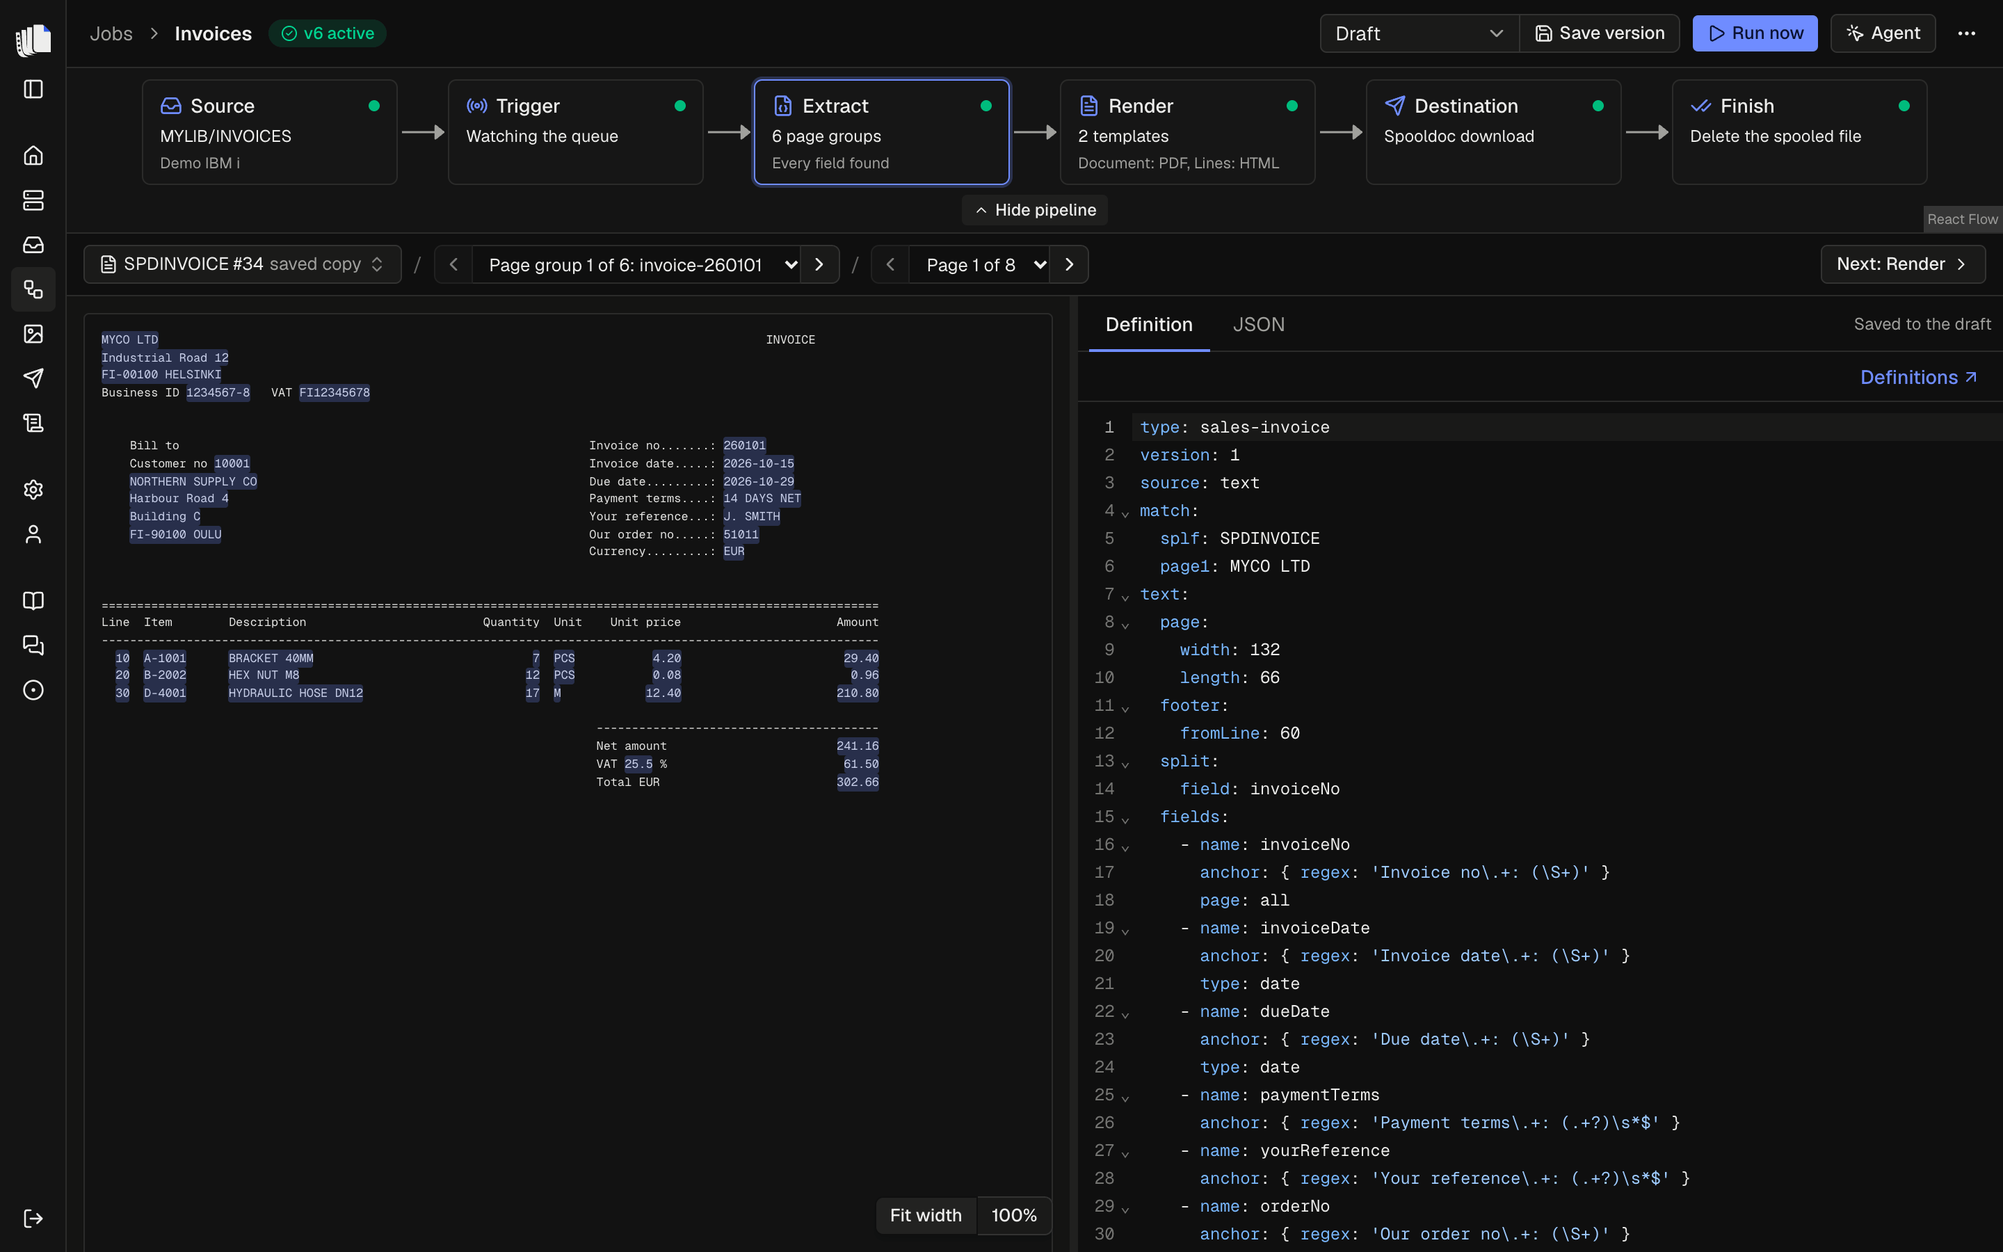
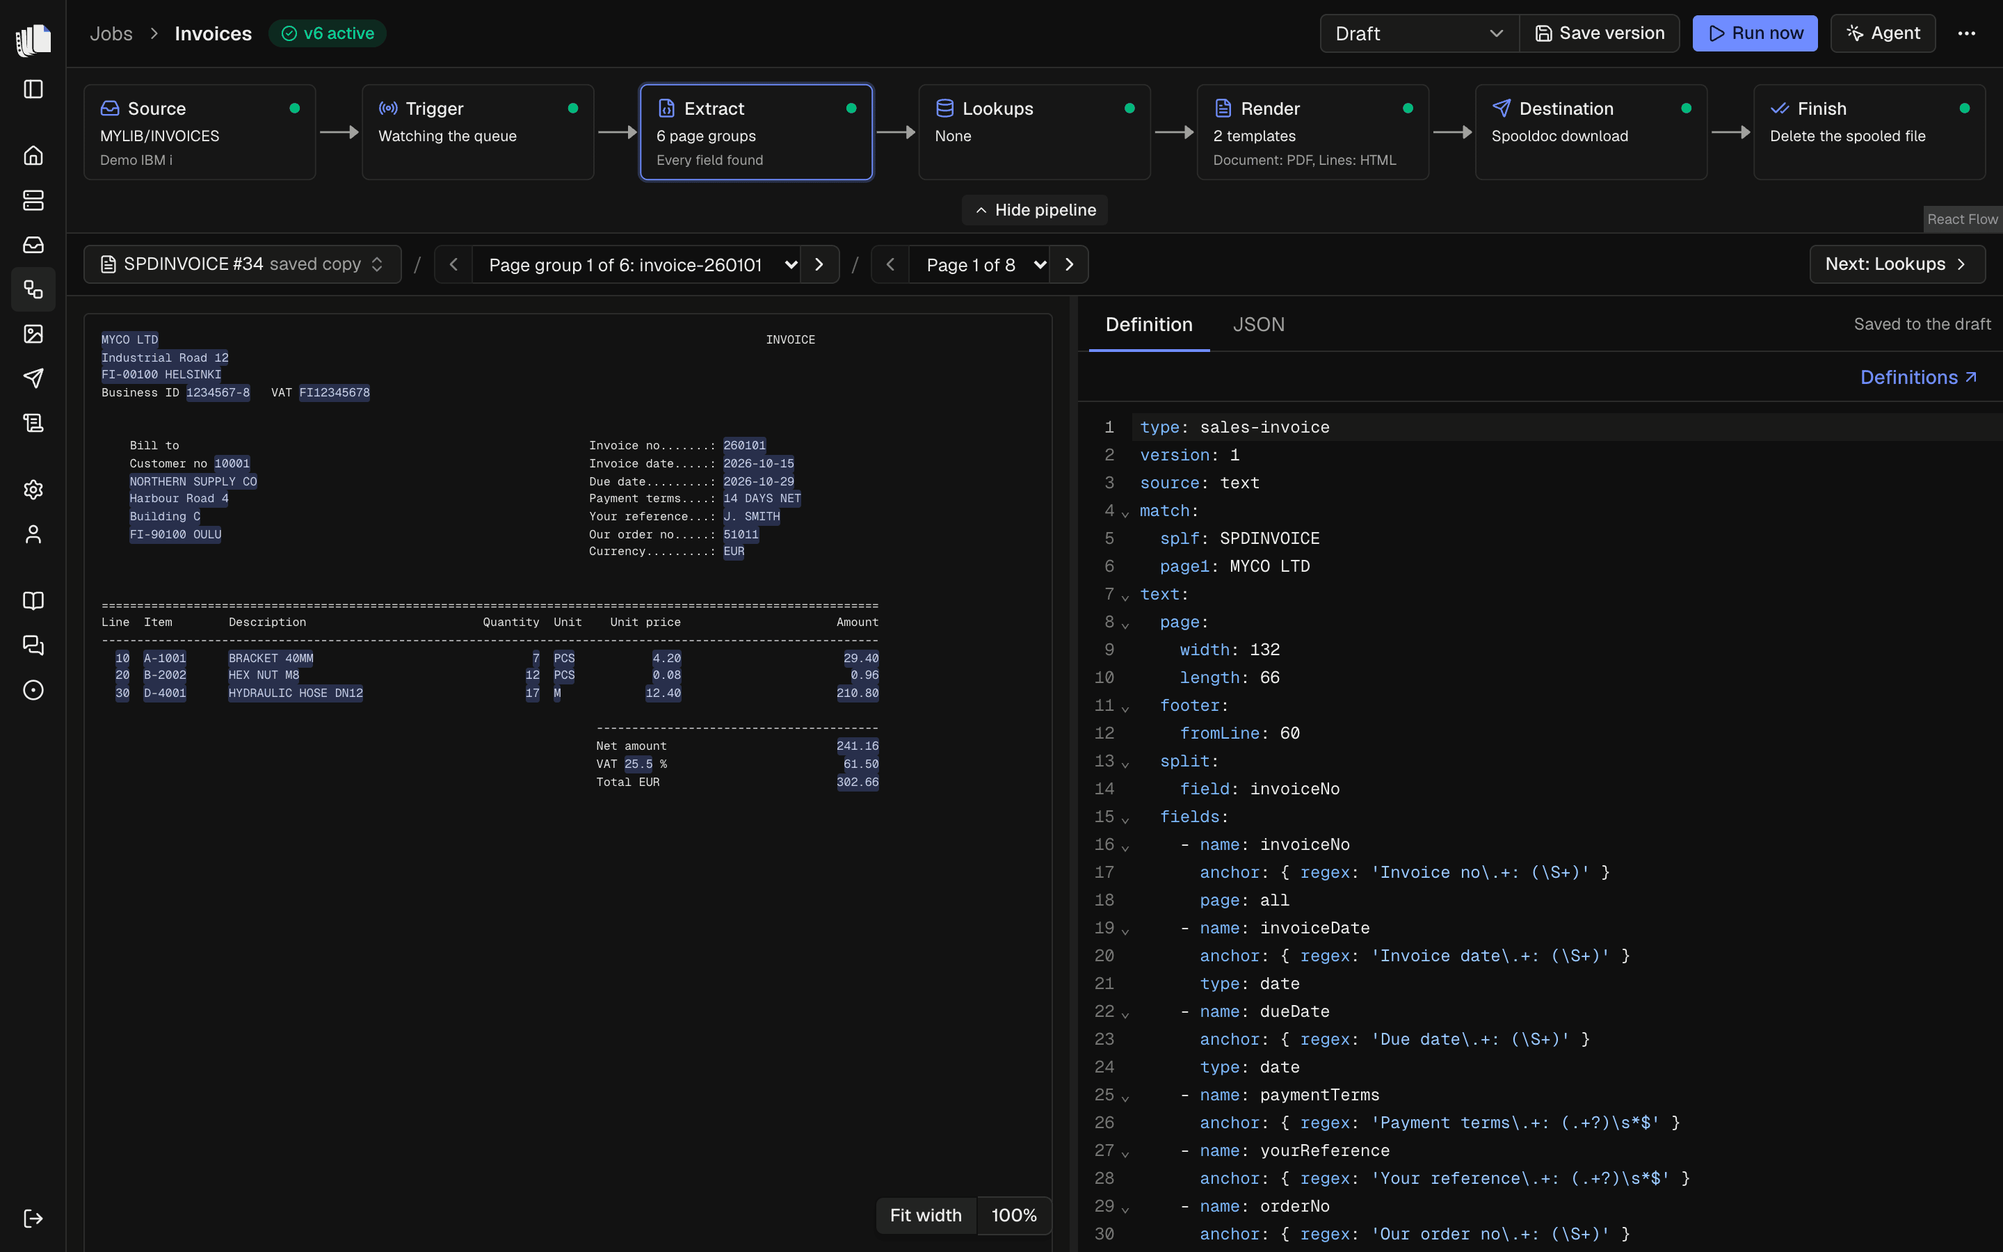
docs: screenshots for lookups (#156)
The job builder screenshot showed six steps. Lookups (#155) made it
seven, and `docs/lookups.md` had no screenshots.

## What changes

- **`job-builder`** is retaken with the seven steps, Lookups reading
None. Its alt text in `docs/jobs.md` and `features.ts` now says seven.
The 0.1.0 post stays as published: its two `src` attributes point at the
old six-step images, frozen under
`apps/site/public/blog/spooldoc-0-1-0/`, and nothing else in it changes.
- **Three new shots in `docs/lookups.md`**, on a pick list job with two
lookups:
- `lookups-step`: `customer` tested, with the SQL and its inline value
`‹10001›`, the parameter with its Db2 for i type, the row and the
template tags.
- `lookups-row`: `product`, once per row of `lines`, reading
`:customer.LANG`, on a page group whose customer reads Finnish.
- `lookups-miss`: customer 10007 is not in the table, so it shows No row
found, the warning that `product` is left empty, and the amber dots.
- **Features:** a new feature, "Lookups from Db2 for i", comes right
after Definitions, with `lookups-step` and `lookups-row`. The lookups
paragraph moves into it from Jobs. Jobs keeps its seven steps sentence
and its link to the Lookups guide. The home grid shows the nine cards as
three rows of three (two columns on tablets, the odd last card across
both), and each card carries the icon the app uses for the same thing,
from `apps/site/src/lib/icons.ts`.
- The example warning in `docs/lookups.md` now reads `picklist-700005`,
[…]

diff --git a/apps/site/src/lib/features.ts b/apps/site/src/lib/features.ts
@@ -5,10 +5,14 @@
  *
  * Paragraphs may hold `<code>` and links: they are written here, never user input.
  */
+import type { IconName } from './icons';
+
 export interface Feature {
   /** The section's anchor on /features. */
   id: string;
   title: string;
+  /** The icon the app shows for it: in the sidebar, the pipeline or the agent's button. */
+  icon: IconName;
   /** One sentence for the grid on the home page. */
   summary: string;
   /** A few short paragraphs for /features. */
@@ -39,7 +43,7 @@ export const SHOTS = {
   'queue-files':
     'The spooled files of one output queue, under the path Queues, the server and the queue, with the four filters above the list and one held spooled file with its number, job, user data, pages, width and length, and when it was created.',
   'job-builder':
-    'The job builder with the extract step open shows the six pipeline steps across the top, the sample invoice page with field hits highlighted on the left, and the definition editor on the right.',
+    'The job builder with the extract step open shows the seven pipeline steps across the top, with Lookups between Extract and Render, the sample invoice page with field hits highlighted on the left, and the definition editor on the right.',
   'xml-definition':
     'The extract step of a job whose spooled file holds XML: the page with its elements highlighted on the left, and the definition with source: xml, the page group element FORM, its fields and its repeating lines on the right.',
   'template-preview':
@@ -51,6 +55,10 @@ export const SHOTS = {
   'ai-assistant':
     'The agent panel beside the workbench shows the suggested prompts, one per kind of template, and the message box.',
   jobs: 'The Jobs page lists five jobs with their server, queue, mode, version and last run: three watching and two run on demand, three of them deleting their spooled files after delivery, and one whose last run failed.',
+  'lookups-step':
+    'The Lookups step of a pick list job lists the lookups customer and product, both ready. The customer form shows the SQL SELECT NAME, EMAIL, LANG FROM MYLIB.CUSTOMERS WHERE CUSTNO = :customerNo with the value 10001 after the parameter. Beside it, the Test tab shows the parameter with its VARCHAR(10) type, the one row found with the customer\'s name, email address and language, and the three tags templates write, each with a copy button.',
+  'lookups-row':
+    'The row lookup product runs once per row of lines, with the SQL SELECT DESCRIPTION FROM MYLIB.ITEMS WHERE ITEMNO = :item AND LANG = :customer.LANG and the values D-4001 and FI after the parameters. The Test tab says it ran with row 1 of lines, lists :item from d.pg.lines[0].item and :customer.LANG from d.pg.customer.LANG, shows the Finnish description found, and the tag {d.pg.lines[i].product.DESCRIPTION}.',
   trigger:
     'The trigger step of a job set to Watching: the watcher runs ready files and the files already on the queue too, and the queue is watched by polling every 30 seconds, with Set up real-time below.',
   finish:
@@ -121,6 +129,7 @@ export const FEATURES: Feature[] = [
   {
     id: 'servers-and-queues',
     title: 'Servers and queues',
+    icon: 'server',
     summary: 'Your programs print as they always have. You add the IBM i and pick its output queues.',
     body: [
       'Spooldoc reads what your programs already print. It connects through jt400 over the host server ports, so nothing is installed on the IBM i and no program changes.',
@@ -137,6 +146,7 @@ export const FEATURES: Feature[] = [
   {
     id: 'definitions',
     title: 'Definitions in YAML',
+    icon: 'file-json',
     summary: 'A definition reads each page into JSON: fields, tables, records and page groups.',
     body: [
       'A definition is a short YAML document that reads the pages of a spooled file into JSON. Fields are found by label, pattern or position. Tables, multi-line records and split keys cover page groups printed back to back, such as one invoice each. XML in a spooled file is read too.',
@@ -148,8 +158,23 @@ export const FEATURES: Feature[] = [
     code: { code: DEFINITION_EXAMPLE, lang: 'yaml', title: 'YAML, the start of the definition shown below', place: 'beside' },
   },
   {
+    id: 'lookups',
+    title: 'Lookups from Db2 for i',
+    icon: 'database',
+    summary: 'The email address an invoice does not print comes from Db2 for i, with no program change.',
+    body: [
+      'Many printed documents leave out something the document needs, most often the customer\'s email address. A lookup reads it from Db2 for i instead, so the program and its spooled file stay as they are.',
+      'A lookup is one SELECT. It takes values the definition read, such as the customer number, as bound parameters, never written into the SQL, and runs on a read-only connection. Its rows join the page group\'s data, so templates and email fields use them like any field: <code>{d.pg.customer.EMAIL}</code>.',
+      'A lookup can run once per row of a table, such as the description of each item, and use the columns of an earlier one, such as the customer\'s language. When no row is found, the run stops, warns or leaves the columns empty, as you choose.',
+      'Test runs a lookup on the job\'s server with the values of the page group shown: each parameter with its Db2 for i type, the rows, and the tags to copy. A version is saved only with lookups that were tested.',
+    ],
+    shots: ['lookups-step', 'lookups-row'],
+    docs: [{ slug: 'lookups', title: 'Lookups' }],
+  },
+  {
     id: 'templates',
     title: 'Templates you already know',
+    icon: 'file-text',
     summary: 'HTML, Word or Excel with Carbone tags, rendered to PDF, HTML, DOCX or XLSX.',
     body: [
       'A template is an HTML page, a Word document made in Word or an Excel workbook made in Excel, with <a href="https://carbone.io">Carbone</a> tags such as <code>{d.pg.invoiceNo}</code>. Each page group becomes a document through every template of the job, in that template\'s formats.',
@@ -165,6 +190,7 @@ export const FEATURES: Feature[] = [
   {
     id: 'agent',
     title: 'The agent',
+    icon: 'mouse-pointer-click',
     summary: 'The agent drafts the definition and the template from a sample. You decide.',
     body: [
       'The agent sits beside the job builder. From a sample spooled file it writes the definition, reads the extraction report and fixes what is missing. Then it writes a template and renders it: HTML, or a Word or Excel template it designs or edits, looking at every page it renders.',
@@ -177,10 +203,10 @@ export const FEATURES: Feature[] = [
   {
     id: 'jobs',
     title: 'Jobs as pipelines',
+    icon: 'workflow',
     summary: 'Source, trigger, extract, lookups, render, destination, finish. Saved as versions.',
     body: [
       'A job takes the spooled files of one output queue to a destination. The job builder shows it as seven steps: source, trigger, extract, lookups, render, destination and finish. The draft saves as you type.',
-      'When the spooled file does not print what a document needs, such as the customer\'s email address, a lookup reads it from Db2 for i: one SELECT with values the definition read as bound parameters, on a read-only connection. Templates and email fields use its columns like any field, such as <code>{d.pg.customer.EMAIL}</code>. Test runs it with the values of the page group shown before a version can be saved.',
       'Saving a version takes a fixed copy of the draft, with a note of what changed. Runs use the active version, and every run is logged against the version it used. Restore an older version to go back.',
       'Run a job on demand on the files you pick, or let it watch the queue. Watching works by polling, or in real time through a data queue that Spooldoc creates only when you turn real-time watching on. When the documents are delivered, the finish step holds, moves, deletes or leaves the spooled file. Delete asks first.',
     ],
@@ -193,6 +219,7 @@ export const FEATURES: Feature[] = [
   {
     id: 'job-log',
     title: 'Job log',
+    icon: 'scroll-text',
     summary: 'Every run is on the record, with its steps, errors and files.',
     body: [
       'Every run of every job is in the job log: the version it used, the spooled file, what started it, its status and the files it delivered. Open a run to see its steps: capture, extract, lookups when the job has some, render, deliver and finish.',
@@ -206,6 +233,7 @@ export const FEATURES: Feature[] = [
   {
     id: 'destinations',
     title: 'Download, IFS, email, webhooks and SFTP',
+    icon: 'send',
     summary: 'Files go to a download in Spooldoc, a folder in the IFS, by email to the address printed in each document, to your URL as signed JSON, or to a folder on an SFTP server.',
     body: [
       'The built-in destination keeps every file in Spooldoc, ready to download from the run in the job log.',
@@ -221,6 +249,7 @@ export const FEATURES: Feature[] = [
   {
     id: 'compose',
     title: 'One Compose file',
+    icon: 'container',
     summary: 'The web app, Postgres and Carbone, on amd64 and arm64.',
     body: [
       'The Compose file starts the published image with a Postgres database and a Carbone server. The image holds the web app and the Java runtime for jt400, and runs on amd64 and arm64.',

diff --git a/apps/site/src/lib/icons.ts b/apps/site/src/lib/icons.ts
@@ -1,0 +1,22 @@
+/**
+ * The icons the app shows for each thing, so a card on the site carries the same icon as
+ * the page or the pipeline step in the app: the sidebar's Server, Workflow, Scroll text and
+ * Send, the pipeline's File JSON (Extract), Database (Lookups) and File text (Render), and
+ * the agent's Mouse pointer click. Container is the one the app has no page for.
+ *
+ * The inner markup of Lucide's icons (lucide-react 1.58.0, ISC license), drawn on a
+ * 24 by 24 grid with a 2 wide round stroke in currentColor.
+ */
+export const ICONS = {
+  server: '<rect width="20" height="8" x="2" y="2" rx="2" ry="2" /><rect width="20" height="8" x="2" y="14" rx="2" ry="2" /><line x1="6" x2="6.01" y1="6" y2="6" /><line x1="6" x2="6.01" y1="18" y2="18" />',
+  'file-json': '<path d="M6 22a2 2 0 0 1-2-2V4a2 2 0 0 1 2-2h8a2.4 2.4 0 0 1 1.704.706l3.588 3.588A2.4 2.4 0 0 1 20 8v12a2 2 0 0 1-2 2z" /><path d="M14 2v5a1 1 0 0 0 1 1h5" /><path d="M10 12a1 1 0 0 0-1 1v1a1 1 0 0 1-1 1 1 1 0 0 1 1 1v1a1 1 0 0 0 1 1" /><path d="M14 18a1 1 0 0 0 1-1v-1a1 1 0 0 1 1-1 1 1 0 0 1-1-1v-1a1 1 0 0 0-1-1" />',
+  database: '<ellipse cx="12" cy="5" rx="9" ry="3" /><path d="M3 5V19A9 3 0 0 0 21 19V5" /><path d="M3 12A9 3 0 0 0 21 12" />',
+  'file-text': '<path d="M6 22a2 2 0 0 1-2-2V4a2 2 0 0 1 2-2h8a2.4 2.4 0 0 1 1.704.706l3.588 3.588A2.4 2.4 0 0 1 20 8v12a2 2 0 0 1-2 2z" /><path d="M14 2v5a1 1 0 0 0 1 1h5" /><path d="M10 9H8" /><path d="M16 13H8" /><path d="M16 17H8" />',
+  'mouse-pointer-click': '<path d="M14 4.1 12 6" /><path d="m5.1 8-2.9-.8" /><path d="m6 12-1.9 2" /><path d="M7.2 2.2 8 5.1" /><path d="M9.037 9.69a.498.498 0 0 1 .653-.653l11 4.5a.5.5 0 0 1-.074.949l-4.349 1.041a1 1 0 0 0-.74.739l-1.04 4.35a.5.5 0 0 1-.95.074z" />',
+  workflow: '<rect width="8" height="8" x="3" y="3" rx="2" /><path d="M7 11v4a2 2 0 0 0 2 2h4" /><rect width="8" height="8" x="13" y="13" rx="2" />',
+  'scroll-text': '<path d="M15 12h-5" /><path d="M15 8h-5" /><path d="M19 17V5a2 2 0 0 0-2-2H4" /><path d="M8 21h12a2 2 0 0 0 2-2v-1a1 1 0 0 0-1-1H11a1 1 0 0 0-1 1v1a2 2 0 1 1-4 0V5a2 2 0 1 0-4 0v2a1 1 0 0 0 1 1h3" />',
+  send: '<path d="M14.536 21.686a.5.5 0 0 0 .937-.024l6.5-19a.496.496 0 0 0-.635-.635l-19 6.5a.5.5 0 0 0-.024.937l7.93 3.18a2 2 0 0 1 1.112 1.11z" /><path d="m21.854 2.147-10.94 10.939" />',
+  container: '<path d="M22 7.7c0-.6-.4-1.2-.8-1.5l-6.3-3.9a1.72 1.72 0 0 0-1.7 0l-10.3 6c-.5.2-.9.8-.9 1.4v6.6c0 .5.4 1.2.8 1.5l6.3 3.9a1.72 1.72 0 0 0 1.7 0l10.3-6c.5-.3.9-1 .9-1.5Z" /><path d="M10 21.9V14L2.1 9.1" /><path d="m10 14 11.9-6.9" /><path d="M14 19.8v-8.1" /><path d="M18 17.5V9.4" />',
+} as const;
+
+export type IconName = keyof typeof ICONS;

diff --git a/docs/lookups.md b/docs/lookups.md
@@ -48,6 +48,13 @@ Write the email destination's To as `{d.pg.customer.EMAIL}`. **Insert
 field** in the Destination step lists the lookup's columns. A template
 writes the same tag, such as `<p>{d.pg.customer.NAME}</p>`.
 
+<p align="center">
+  <picture>
+    <source media="(prefers-color-scheme: dark)" srcset="assets/lookups-step-dark.png">
+    <img src="assets/lookups-step-light.png" alt="The Lookups step of a pick list job lists the lookups customer and product, both ready. The customer form shows the SQL SELECT NAME, EMAIL, LANG FROM MYLIB.CUSTOMERS WHERE CUSTNO = :customerNo with the value 10001 after the parameter. Beside it, the Test tab shows the parameter with its VARCHAR(10) type, the one row found with the customer's name, email address and language, and the three tags templates write, each with a copy button." width="900">
+  </picture>
+</p>
+
 The columns keep the names Db2 for i gives them: `EMAIL`. Give a column
 another name with `AS`, and a lowercase one in quotes:
 `EMAIL AS "email"`. A column made from an expression needs a name too,
@@ -98,6 +105,16 @@ A parameter of a row lookup can also name a field of the page group. When
 a column of the row and a field of the page group have the same name,
 rename one of them in the definition.
 
+A row lookup can read an earlier lookup too. With `:customer.LANG`, each
+item gets its description in the customer's language:
+
+<p align="center">
+  <picture>
+    <source media="(prefers-color-scheme: dark)" srcset="assets/lookups-row-dark.png">
+    <img src="assets/lookups-row-light.png" alt="The row lookup product runs once per row of lines, with the SQL SELECT DESCRIPTION FROM MYLIB.ITEMS WHERE ITEMNO = :item AND LANG = :customer.LANG and the values D-4001 and FI after the parameters. The Test tab says it ran with row 1 of lines, lists :item from d.pg.lines[0].item and :customer.LANG from d.pg.customer.LANG, shows the Finnish description found, and the tag {d.pg.lines[i].product.DESCRIPTION}." width="900">
+  </picture>
+</p>
+
 ## One row or all rows
 
 **One row** adds the row as an object: `{d.pg.customer.EMAIL}`. When the
@@ -124,9 +141,16 @@ A later lookup that reads a column of one that found no row does not run
 in that page group, or that row: with `:customer.LANG`, a `product`
 lookup has no language to look up with. Its columns are left empty, and
 it adds no warning of its own. The earlier lookup's warning says what it
-left empty: "No row in customer for customerNo 10007 (pick-list-700005).
+left empty: "No row in customer for customerNo 10007 (picklist-700005).
 product is left empty." When the earlier lookup stops the run, the later
 one never runs.
+
+<p align="center">
+  <picture>
+    <source media="(prefers-color-scheme: dark)" srcset="assets/lookups-miss-dark.png">
+    <img src="assets/lookups-miss-light.png" alt="Page group 5 of a pick list job, whose customer number 10007 is not in the customer table. The Test of customer shows the parameter and No row found, says a run leaves the columns empty, and warns: No row in customer for customerNo 10007 (picklist-700005). product is left empty. The customer lookup and the Lookups step in the pipeline show the amber dot of a lookup worth a look." width="900">
+  </picture>
+</p>
 
 A parameter whose field is empty on the page is different: it is bound
 as NULL and the lookup runs. A condition such as `CUSTNO = :customerNo`

diff --git a/apps/site/src/content/blog/2026-10-19-spooldoc-0-1-0.md b/apps/site/src/content/blog/2026-10-19-spooldoc-0-1-0.md
@@ -12,7 +12,7 @@ YAML, renders it with an ordinary HTML template into PDF or HTML, and keeps
 the files. The agent proposes the first definition and template from a
 sample spooled file, and you check every extracted field next to the page.
 
-<p align="center"><img data-theme-image="light" src="/docs/assets/job-builder-light.png" alt="The job builder with the extract step open: six pipeline steps across the top, the sample page with field hits highlighted on the left and the definition editor on the right" width="900" height="563"><img data-theme-image="dark" src="/docs/assets/job-builder-dark.png" alt="The job builder with the extract step open: six pipeline steps across the top, the sample page with field hits highlighted on the left and the definition editor on the right" width="900" height="563"></p>
+<p align="center"><img data-theme-image="light" src="/blog/spooldoc-0-1-0/job-builder-light.png" alt="The job builder with the extract step open: six pipeline steps across the top, the sample page with field hits highlighted on the left and the definition editor on the right" width="900" height="563"><img data-theme-image="dark" src="/blog/spooldoc-0-1-0/job-builder-dark.png" alt="The job builder with the extract step open: six pipeline steps across the top, the sample page with field hits highlighted on the left and the definition editor on the right" width="900" height="563"></p>
 
 ## Try it
 

diff --git a/docs/jobs.md b/docs/jobs.md
@@ -39,7 +39,7 @@ has changes.
 <p align="center">
   <picture>
     <source media="(prefers-color-scheme: dark)" srcset="assets/job-builder-dark.png">
-    <img src="assets/job-builder-light.png" alt="The job builder with the extract step open shows the six pipeline steps across the top, the sample invoice page with field hits highlighted on the left, and the definition editor on the right." width="900">
+    <img src="assets/job-builder-light.png" alt="The job builder with the extract step open shows the seven pipeline steps across the top, with Lookups between Extract and Render, the sample invoice page with field hits highlighted on the left, and the definition editor on the right." width="900">
   </picture>
 </p>
 
